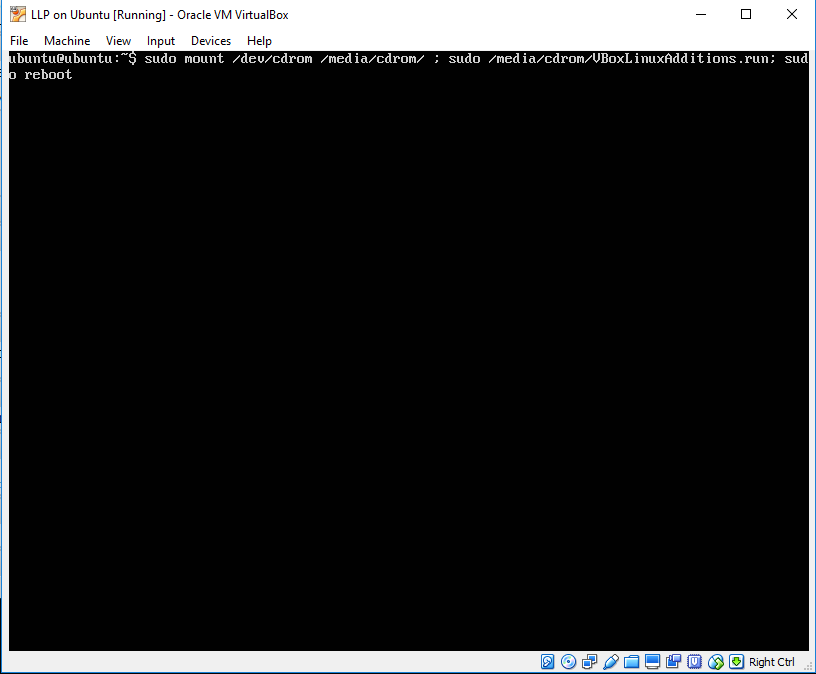
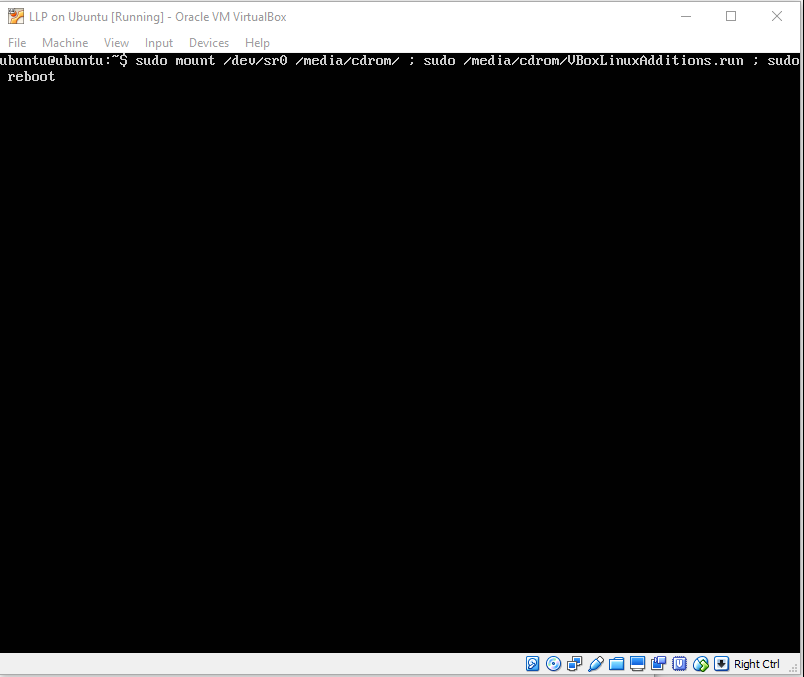
fixed step 9 cdrom mount issue

Changed region(s): [[0.0, 0.0, 1.0, 1.0], [0.8396, 0.0, 0.8706, 0.0312]]

diff --git a/labs/00-labs-01-getting_started/8.md b/labs/00-labs-01-getting_started/8.md
@@ -42,7 +42,7 @@ As stated before the Windows operating system has some requirements (must be Pro
 
   ![](posts/files/00-labs-01-getting_started/assets/images/ubuntu_6.png)
 
-9. Finally, issue `sudo mount /dev/cdrom/ /media/cdrom/ ; sudo /media/cdrom/VBoxLinuxAdditions.run; sudo reboot` command.
+9. Finally, issue `sudo mount /dev/sr0/ /media/cdrom/ ; sudo /media/cdrom/VBoxLinuxAdditions.run; sudo reboot` command.
 
   ![](posts/files/00-labs-01-getting_started/assets/images/ubuntu_7.png)
 
